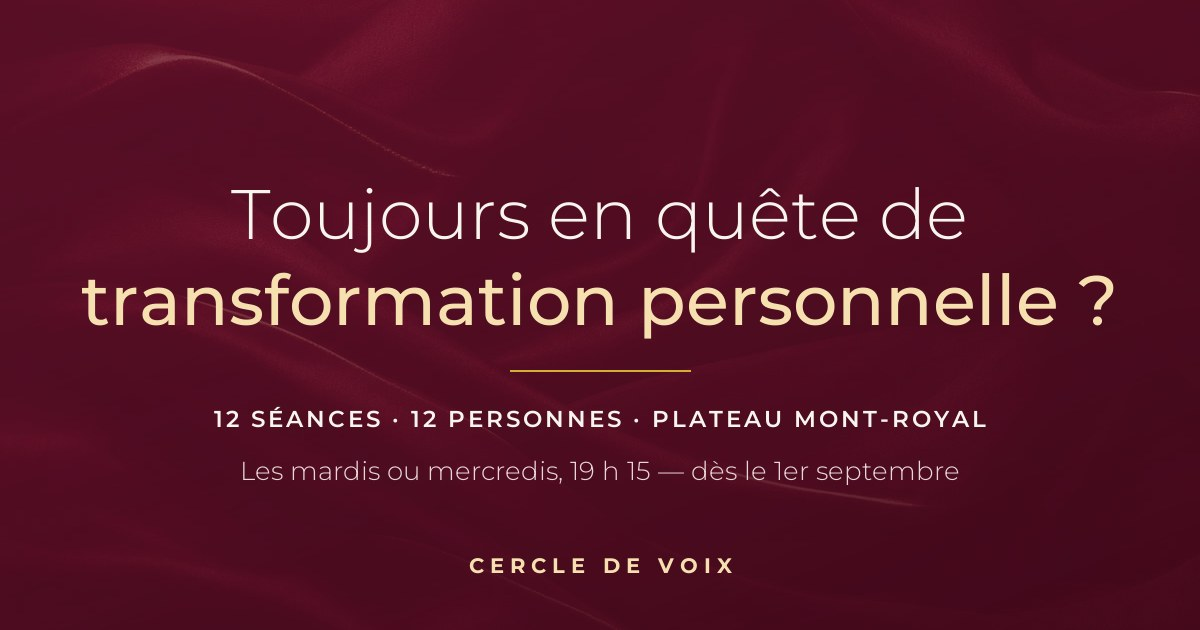
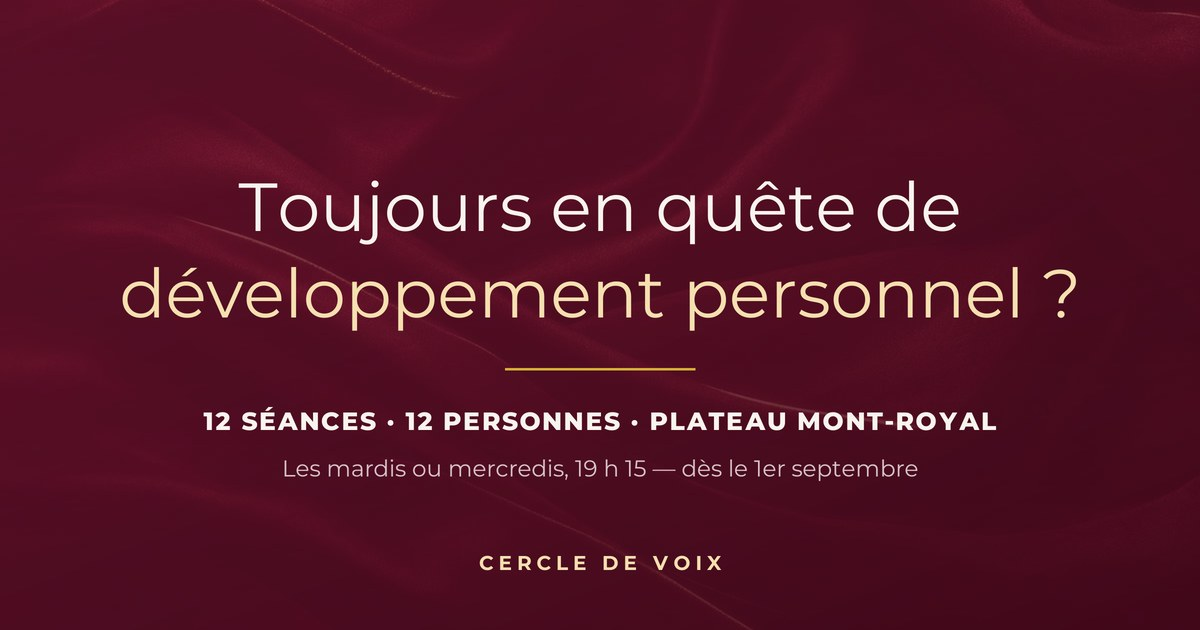
landing: 'développement personnel' in place of 'transformation personnelle'
Changed in all five places it appears — the h1, the meta description, the
og:title, the og:image:alt and the twitter:title — and the share card
redrawn, because the headline is baked into those pixels and every
Facebook and WhatsApp preview would otherwise have kept showing the old
wording however many times the page itself was updated.

diff --git a/index.html b/index.html
@@ -16,13 +16,13 @@
 <meta name="theme-color" content="#6E1330">
 
 <title>Cercle de Voix — 12 semaines, 12 personnes · Plateau Mont-Royal</title>
-<meta name="description" content="Toujours en quête de transformation personnelle ? Un cercle de 12 personnes, 12 séances, les mardis ou mercredis 19 h 15 au Centre Soha, Plateau Mont-Royal. Dès le 1er septembre.">
+<meta name="description" content="Toujours en quête de développement personnel ? Un cercle de 12 personnes, 12 séances, les mardis ou mercredis 19 h 15 au Centre Soha, Plateau Mont-Royal. Dès le 1er septembre.">
 
 <!-- Share card. Without og:image the scrapers pick a photo off the page at
      random — the last share went out with the back of someone's head. This
      is a rendered 1200x630 card carrying the same headline and type as the
      hero, so the preview looks like the page it opens. -->
-<meta property="og:title" content="Toujours en quête de transformation personnelle ?">
+<meta property="og:title" content="Toujours en quête de développement personnel ?">
 <meta property="og:description" content="12 séances, 12 personnes maximum, au Centre Soha dans le Plateau. Les mardis ou mercredis, dès le 1er septembre.">
 <meta property="og:type" content="website">
 <meta property="og:locale" content="fr_CA">
@@ -33,9 +33,9 @@
 <meta property="og:image:type" content="image/jpeg">
 <meta property="og:image:width" content="1200">
 <meta property="og:image:height" content="630">
-<meta property="og:image:alt" content="Cercle de Voix — Toujours en quête de transformation personnelle ? 12 séances, 12 personnes, Plateau Mont-Royal.">
+<meta property="og:image:alt" content="Cercle de Voix — Toujours en quête de développement personnel ? 12 séances, 12 personnes, Plateau Mont-Royal.">
 <meta name="twitter:card" content="summary_large_image">
-<meta name="twitter:title" content="Toujours en quête de transformation personnelle ?">
+<meta name="twitter:title" content="Toujours en quête de développement personnel ?">
 <meta name="twitter:description" content="12 séances, 12 personnes maximum, au Centre Soha dans le Plateau. Dès le 1er septembre.">
 <meta name="twitter:image" content="https://cercle.veacademy.studio/og-cercle.jpg">
 
@@ -838,7 +838,7 @@ footer p{font-size:.78rem;color:var(--ink-soft)}
      ============================================================ -->
 <section class="section hero dark">
   <div class="narrow">
-    <h1 class="reveal">Toujours en quête de<br><em>transformation personnelle&nbsp;?</em></h1>
+    <h1 class="reveal">Toujours en quête de<br><em>développement personnel&nbsp;?</em></h1>
 
     <p class="hero-sub reveal">La voix et la respiration sont des outils qui te donnent accès à ton monde intérieur. La science démontre que chanter a un impact positif sur notre santé grâce aux vibrations et fréquences que l'on produit.</p>
 
